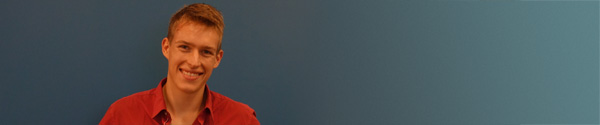
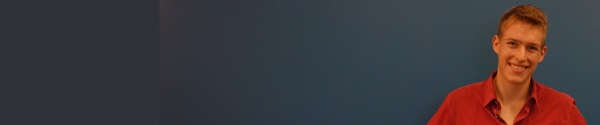
trying to figure out animations

diff --git a/index2.html b/index2.html
@@ -5,8 +5,9 @@
 	<title>Amadeus Wieczorek</title> 
 	<link type="text/css" rel="stylesheet" href="style/amadeus.css" /> 
 	<link type="text/css" rel="stylesheet" href="style/colorbox.css" /> 
-	<script src="https://ajax.googleapis.com/ajax/libs/jquery/1.10.2/jquery.min.js"></script>
-	<script src="../jquery.colorbox.js"></script>
+	<script src="https://ajax.googleapis.com/ajax/libs/jquery/2.1.1/jquery.min.js"></script>
+	<script src="jquery.colorbox.js"></script>
+	<script src="amadeus.js"></script>
 	<script>
 		$(document).ready(function(){
 			$(".colorbox-group1").colorbox({rel:'colorbox-group1'});
@@ -14,7 +15,7 @@
 			$(".colorbox-group3").colorbox({rel:'colorbox-group3'});
 			$(".colorbox-group4").colorbox({rel:'colorbox-group4'});
 			$(".colorbox-youtube").colorbox({iframe:true, innerWidth:640, innerHeight:390});
-		};
+		});
 	</script>
 </head>
 
@@ -22,47 +23,49 @@
 
 <div class="pointer"></div>
 	<div class="tiles">
-		<section class="images">
-			<div class="wide-tile"><a href="#"><img src="images/Amadeusz.jpg" /></a></div>
+		<section class="tile1">
+			<figure><a id="article1link"><img src="images/Amadeusz.jpg" /></a></figure>
 		</section>
-		<section class="images">
-			<div class="wide-tile"><a href="#"><img src="images/Ambilight.jpg" /></a></div>
+		<section class="tile2">
+			<figure><a id="article2link"><img src="images/Ambilight.jpg" /></a></figure>
 		</section>		
-		<section class="images group2">
-			<figure><a class="colorbox-group2"><img src="https://avatars0.githubusercontent.com/u/1673956?v=3&s=460" /></a></figure>
-			<figure><a class="colorbox-group2"><img src="https://avatars0.githubusercontent.com/u/1673956?v=3&s=460" /></a></figure>
-			<figure><a class="colorbox-group2"><img src="https://avatars0.githubusercontent.com/u/1673956?v=3&s=460" /></a></figure>
-			<figure><a class="colorbox-group2"><img src="https://avatars0.githubusercontent.com/u/1673956?v=3&s=460" /></a></figure>
+		<section class="tile3">
+			<figure><a><img src="images/Amadeusz.jpg" /></a></figure>
 		</section>
-		<section class="images group3">
-			<figure><a class="colorbox-group3"><img src="https://avatars0.githubusercontent.com/u/1673956?v=3&s=460" /></a></figure>
-			<figure><a class="colorbox-group3"><img src="https://avatars0.githubusercontent.com/u/1673956?v=3&s=460" /></a></figure>
-			<figure><a class="colorbox-group3"><img src="https://avatars0.githubusercontent.com/u/1673956?v=3&s=460" /></a></figure>
-			<figure><a class="colorbox-group3"><img src="https://avatars0.githubusercontent.com/u/1673956?v=3&s=460" /></a></figure>
+		<section class="tile4">
+			<figure><a href="#"><img src="images/Ambilight.jpg" /></a></figure>
+		</section>	
+		<section class="tile5">
+			<figure><a><img src="images/Amadeusz.jpg" /></a></figure>
 		</section>
-		<section class="images group4">
-			<figure><a class="colorbox-group4"><img src="https://avatars0.githubusercontent.com/u/1673956?v=3&s=460" /></a></figure>
-			<figure><a class="colorbox-group4"><img src="https://avatars0.githubusercontent.com/u/1673956?v=3&s=460" /></a></figure>
-			<figure><a class="colorbox-group4"><img src="https://avatars0.githubusercontent.com/u/1673956?v=3&s=460" /></a></figure>
-			<figure><a class="colorbox-group4"><img src="https://avatars0.githubusercontent.com/u/1673956?v=3&s=460" /></a></figure>
-		</section>		
+		<section class="tile6">
+			<figure><a href="#"><img src="images/Ambilight.jpg" /></a></figure>
+		</section>	
 	</div>
 
 	<div class="description">
-		<article id="group1">
-			<header>Amadeus Wieczorek</header>
+		<article id="article1">
+			<header id="test">Amadeus Wieczorek</header>
 			<nav>
 				<ul>
 					<li><a href="#" class="selected">ABOUT ME</a></li>
 					<li><a href="#">RESUME</a></li>
 				</ul>
 			</nav>
+			<section class="body">
 			<p>My name is Amadeus and I am a recent graduate from Computer Engineering student at University of Waterloo with a minor in Cognitive Science.</p>
 			<p>I enjoy software engineering, working with hardware and programming for high performance, fully utilizing available hardware resources.</p>
 			<p>I am also interested in cognitive science, particularly how machines can leverage human perception to enhance learning and life quality, but also how can we learn from organisms to enhance the machines.</p>
+			</section>
+			<section class="thumbnails group2">
+				<figure><a class="colorbox-group2"><img src="https://avatars0.githubusercontent.com/u/1673956?v=3&s=460" /></a></figure>
+				<figure><a class="colorbox-group2"><img src="https://avatars0.githubusercontent.com/u/1673956?v=3&s=460" /></a></figure>
+				<figure><a class="colorbox-group2"><img src="https://avatars0.githubusercontent.com/u/1673956?v=3&s=460" /></a></figure>
+				<figure><a class="colorbox-group2"><img src="https://avatars0.githubusercontent.com/u/1673956?v=3&s=460" /></a></figure>
+			</section>
 		</article>
 
-		<article id="group2">
+		<article id="artile2">
 			<header>Ambilight clone</header>
 			<nav>
 				<ul>

diff --git a/style/amadeus.css b/style/amadeus.css
@@ -18,7 +18,7 @@ body {
 	background-color: #dde0dd;
 	overflow-y: auto;
 	color: #200;
-	width: 60%;
+	width: 66%;
 	top: 0;
 	right: 0;
 	bottom: 0;
@@ -69,44 +69,22 @@ body {
 	border-bottom: 3px solid #a0f;
 }
 
-.tiles {
-	background-color: #224;
-	overflow-y: auto;
-	width: 40%;
-	top: 0;
-	left: 0;
-	bottom: 0;
-	position: absolute;
+.thumbnails {
+
 }
 
-.images {
-	float: right;
-	clear: right;
-	margin-top: 20px;
-	margin-right: 60px;
-}
-
-.images:first-child {
-	margin-top: 150px;
-}
-
-.images figure {
-	float: right;
+.thumbnails figure {
+	float: left;
 	position: relative;
 	width: 125px;
 	height: 125px;
-	margin: 3px;
+	margin: 0px;
 	cursor: pointer;
-}
-
-.images .wide-tile {
-	width: 600px;
-	height: 125px;
 }
 
 /* This sets up the tint as per http://www.impressivewebs.com/image-tint-blend-css/ */
 /* But the color is defined in .group# figure:before */
-.images figure:before {
+.thumbnails figure:before {
 	content: "";
 	display: block;
 	position: absolute;
@@ -114,20 +92,92 @@ body {
 	bottom: 0;
 	left: 0;
 	right: 0;
-	-moz-transition: background .3s linear;
-	-webkit-transition: background .3s linear;
-	-o-transition: background .3s linear;
-	transition: background .3s linear;
+	-moz-transition: background .1s linear;
+	-webkit-transition: background .1s linear;
+	-o-transition: background .1s linear;
+	transition: background .1s linear;
 }
 
-.images figure:hover:before {
+.thumbnails figure:hover:before {
 	background: none;
 }
 
-.images figure img {
+.thumbnails img {
 	width: 125px;
 	height: 125px;
+	margin: 0;
 	border: 0 none;
+}
+
+.tiles {
+	background-color: #224;
+	overflow: hidden;
+	width: 34%;
+	top: 0;
+	left: 0;
+	bottom: 0;
+	position: absolute;
+}
+
+.tiles section {
+	float: right;
+	clear: right;
+	margin: 0 0px 0 0;
+}
+
+.tiles section:first-child {
+	margin-top: 0px;
+}
+
+.tiles figure {
+	float: right;
+	position: relative;
+	width: 600px;
+	height: 125px;
+	margin: 0px;
+	cursor: pointer;
+}
+
+/* This sets up the tint as per http://www.impressivewebs.com/image-tint-blend-css/ */
+/* But the color is defined in .group# figure:before */
+.tiles figure:before {
+	content: "";
+	display: block;
+	position: absolute;
+	top: 0;
+	bottom: 0;
+	left: 0;
+	right: 0;
+	-moz-transition: background .1s linear;
+	-webkit-transition: background .1s linear;
+	-o-transition: background .1s linear;
+	transition: background .1s linear;
+}
+
+.tiles figure:hover:before {
+	background: none;
+}
+
+.tiles figure img {
+	width: 600px;
+	height: 125px;
+	border: 0 none;
+}
+
+.tile1 figure:before {
+	background: rgba(20,80,100, 0.5);
+}
+
+.tile2 figure:before {
+	background: rgba(20, 70, 150, 0.5);
+}
+
+.tile3 figure:before {
+	background: rgba(180,60,0, 0.5);
+}
+
+.tile4 figure:before {
+	background: rgba(150,90,30 , 0.5);
 }
 
 .group1 figure {

diff --git a/amadeus.js b/amadeus.js
@@ -1,0 +1,30 @@
+$( "#article1link" ).click(function() {
+  $( "#test" )
+    .animate({
+      width: "90%"
+    }, {
+      queue: false,
+      duration: 3000
+    })
+    .animate({ fontSize: "24px" }, 1500 )
+    .animate({ borderRightWidth: "15px" }, 1500 );
+});
+ 
+$( "#go2" ).click(function() {
+  $( "#block2" )
+    .animate({ width: "90%" }, 1000 )
+    .animate({ fontSize: "24px" }, 1000 )
+    .animate({ borderLeftWidth: "15px" }, 1000 );
+});
+ 
+$( "#go3" ).click(function() {
+  $( "#go1" ).add( "#go2" ).click();
+});
+ 
+$( "#go4" ).click(function() {
+  $( "div" ).css({
+    width: "",
+    fontSize: "",
+    borderWidth: ""
+  });
+});
